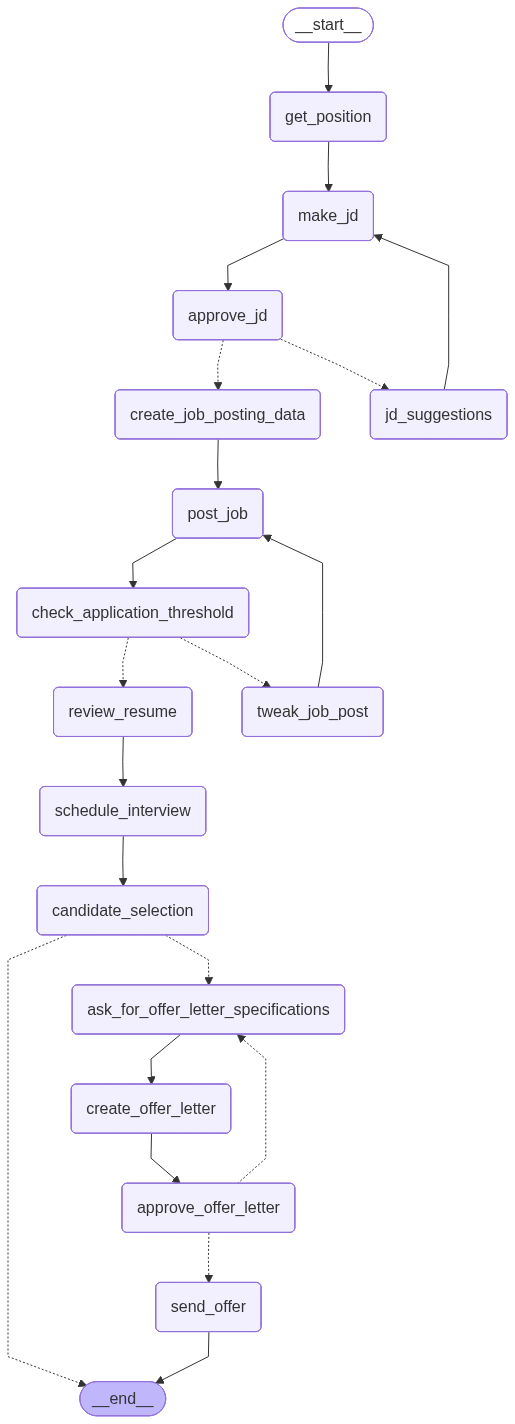
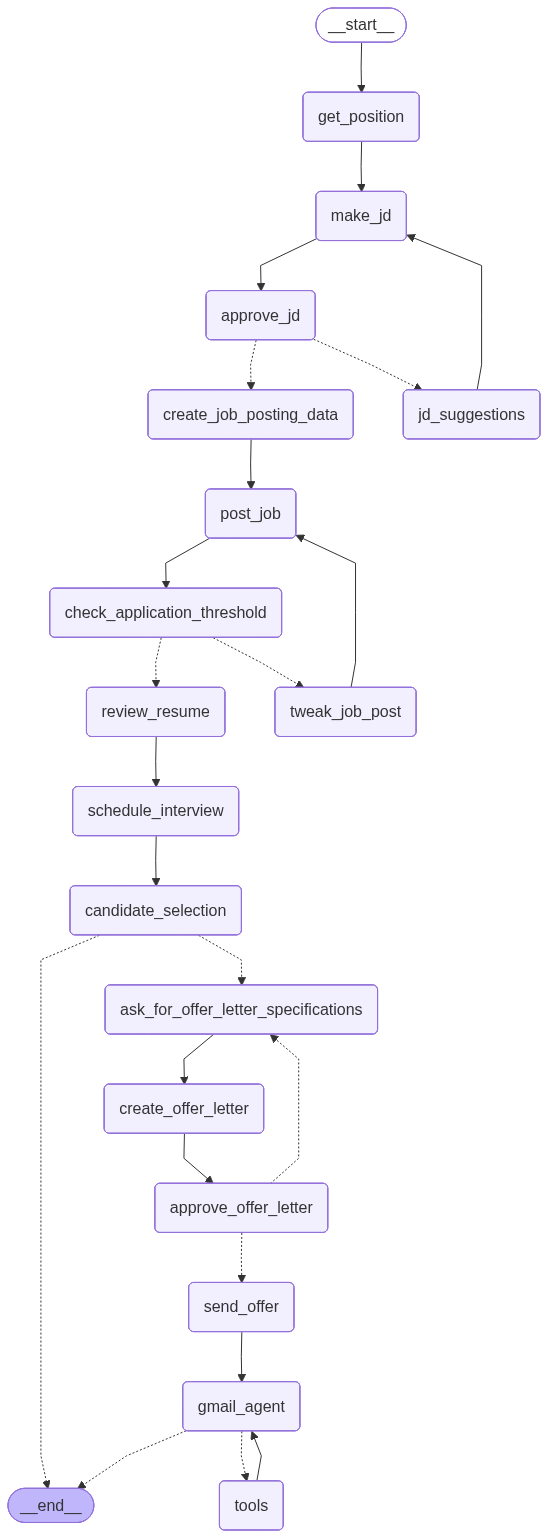
mail tool

diff --git a/HrAssistantAgent/graphUtil.py b/HrAssistantAgent/graphUtil.py
@@ -2,6 +2,13 @@ from typing import TypedDict, Literal, Optional
 from langgraph.graph import StateGraph, START, END
 from llmUtils import JobListing, CerebrasUtils 
 from IPython.display import Image, display
+from langchain_core.tools import tool
+from langgraph.prebuilt import ToolNode, tools_condition
+from langchain_cerebras import ChatCerebras
+from langchain.prompts import ChatPromptTemplate
+
+import os
+import smtplib
 
 class HRRecruitingState(TypedDict):
     position: str
@@ -13,18 +20,53 @@ class HRRecruitingState(TypedDict):
     resume_reviewed: Optional[bool]
     application_threshhold: Optional[int]
     current_number_of_application: Optional[int]
+    candidate_selected: Optional[bool]
     offer_letter: Optional[str]
     offer_letter_specifications: Optional[str]
     offer_letter_approved: Optional[bool]
     offer_sent: Optional[bool]
+    email_status: Optional[str]
+    messages: Optional[list[str]]
     status: Optional[Literal[
         "received_position", "jd_created", "jd_approved", "job_posted", "resume_reviewed", "offer_sent"
     ]]
 
 class HRRecruitingGraph:
     def __init__(self):
+        self.tools = [self.send_mail]
         self.graph = self._build_graph()
         self.cerebras_utils = CerebrasUtils()
+
+    @tool
+    def send_mail(subject: str, body: str, receiver_email: str):
+        """
+        Sends an email using Gmail's SMTP server.
+
+        Args:
+            subject (str): Subject of the email.
+            body (str): Body content of the email.
+            receiver_email (str): Recipient's email address.
+
+        Returns:
+            None. Prints success or error message.
+        """
+        print("#"*45)
+        print(f"Preparing to send email to {receiver_email} with subject '{subject}'")
+        print("#"*45)
+        try:
+            sender_email = os.environ["EMAIL_USER"]
+            sender_password = os.environ["EMAIL_PASSWORD"]
+            server = smtplib.SMTP('smtp.gmail.com', 587)
+            server.starttls()
+            server.login(sender_email, sender_password)
+            message = f'Subject: {subject}\n\n{body}'
+            server.sendmail(sender_email, receiver_email, message)
+            server.quit()
+            print(f"Email sent to {receiver_email}")
+            return "mail successfully sent"
+        except Exception as e:
+            print(f"Failed to send email: {e}")
+        return "mail sending failed"
 
     # Node functions
     @staticmethod
@@ -103,6 +145,7 @@ class HRRecruitingGraph:
     @staticmethod
     def candidate_selection(state):
         print("Selected candidates for interview.")
+        state['candidate_selected'] = True  # Ensure state is updated
         return {"candidate_selected": True}
 
     @staticmethod
@@ -128,6 +171,30 @@ class HRRecruitingGraph:
         print(f"--- Sent offer letter for {state['position']} ---")
         return {"offer_sent": True, "status": "offer_sent"}
 
+    def gmail_agent(self, state):
+        tool_model = ChatCerebras(model="llama-4-scout-17b-16e-instruct")
+        llm_with_tools = tool_model.bind_tools(self.tools)
+
+        # Use the last user message as input
+        messages = state.get("messages", [])
+        if not messages:
+            # Fallback to default prompt if no messages
+            prompt_str = "Draft an email to aroravaibhav102@gmail.com sending him offer letter for the position {position} and this job description {jd} and complete the Hiring process.".format(
+                position=state.get('position', ''),
+                jd=state.get('jd', '')
+            )
+            messages = [{"role": "user", "content": prompt_str}]
+        
+        # Pass messages to the LLM
+        response = llm_with_tools.invoke(messages)
+        print("Gmail agent result:", response)
+
+        # Append the LLM response to the messages list
+        state = dict(state)
+        state["messages"] = messages + [response]
+        return state
+
+
     # Router functions
     @staticmethod
     def route_jd_approval(state: HRRecruitingState) -> str:
@@ -149,7 +216,7 @@ class HRRecruitingGraph:
 
     @staticmethod
     def route_candidate_selection(state: HRRecruitingState) -> str:
-        selection_successful = state.get("candidate_selected", False)
+        selection_successful = state["candidate_selected"]
         if selection_successful:
             return "ask_for_offer_letter_specifications"
         else:
@@ -178,6 +245,8 @@ class HRRecruitingGraph:
         graphBuilder.add_node("ask_for_offer_letter_specifications", self.ask_for_offer_letter_specifications)
         graphBuilder.add_node("create_offer_letter", self.create_offer_letter)
         graphBuilder.add_node("approve_offer_letter", self.approve_offer_letter)
+        graphBuilder.add_node("gmail_agent", self.gmail_agent)
+        graphBuilder.add_node("tools", ToolNode(self.tools))
         graphBuilder.add_node("send_offer", self.send_offer)
         graphBuilder.add_node("check_application_threshold", self.check_application_threshold_node)
 
@@ -225,7 +294,11 @@ class HRRecruitingGraph:
                 "ask_for_offer_letter_specifications": "ask_for_offer_letter_specifications",
             }
         )
-        graphBuilder.add_edge("send_offer", END)
+        graphBuilder.add_edge("send_offer", "gmail_agent")
+        # graphBuilder.add_edge("gmail_agent", "tools")
+        graphBuilder.add_conditional_edges("gmail_agent", tools_condition)
+        graphBuilder.add_edge("tools", "gmail_agent")
+        graphBuilder.add_edge("gmail_agent", END)
         return graphBuilder.compile()
 
     def draw_grapy(self, save_path: str = "graph.png"):

diff --git a/HrAssistantAgent/llmUtils.py b/HrAssistantAgent/llmUtils.py
@@ -9,6 +9,9 @@ from typing import List
 from pydantic import BaseModel, Field
 from dotenv import load_dotenv
 
+import smtplib
+import os
+
 
 
 load_dotenv()
@@ -40,7 +43,9 @@ class CerebrasUtils:
     def __init__(self):
         self.llm = ChatCerebras(model="llama-3.3-70b")
         self.JobListingParser = PydanticOutputParser(pydantic_object=JobListing)
-    
+        
+
+
 
     def create_job_description(self, position: str) -> str:
         loader = TextLoader("companyinfo.txt",encoding='utf-8')
